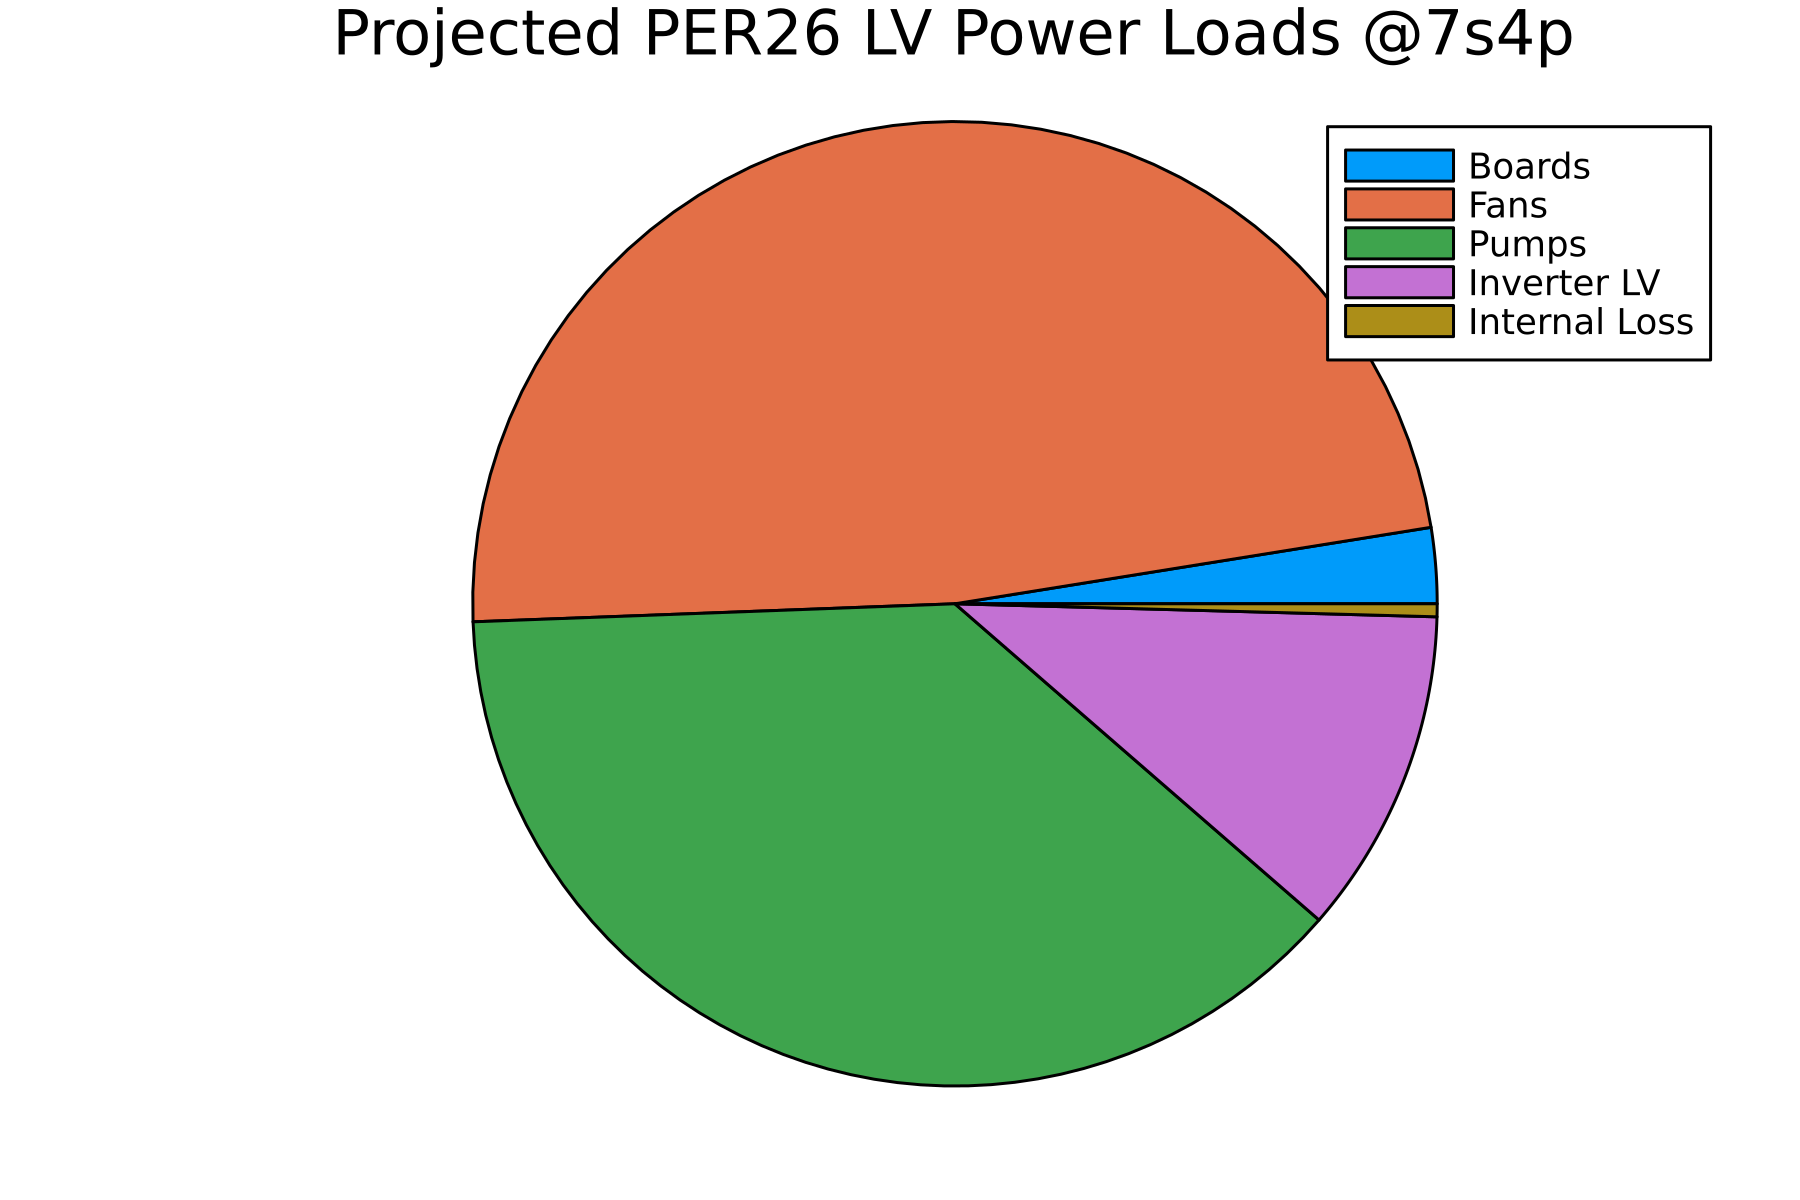
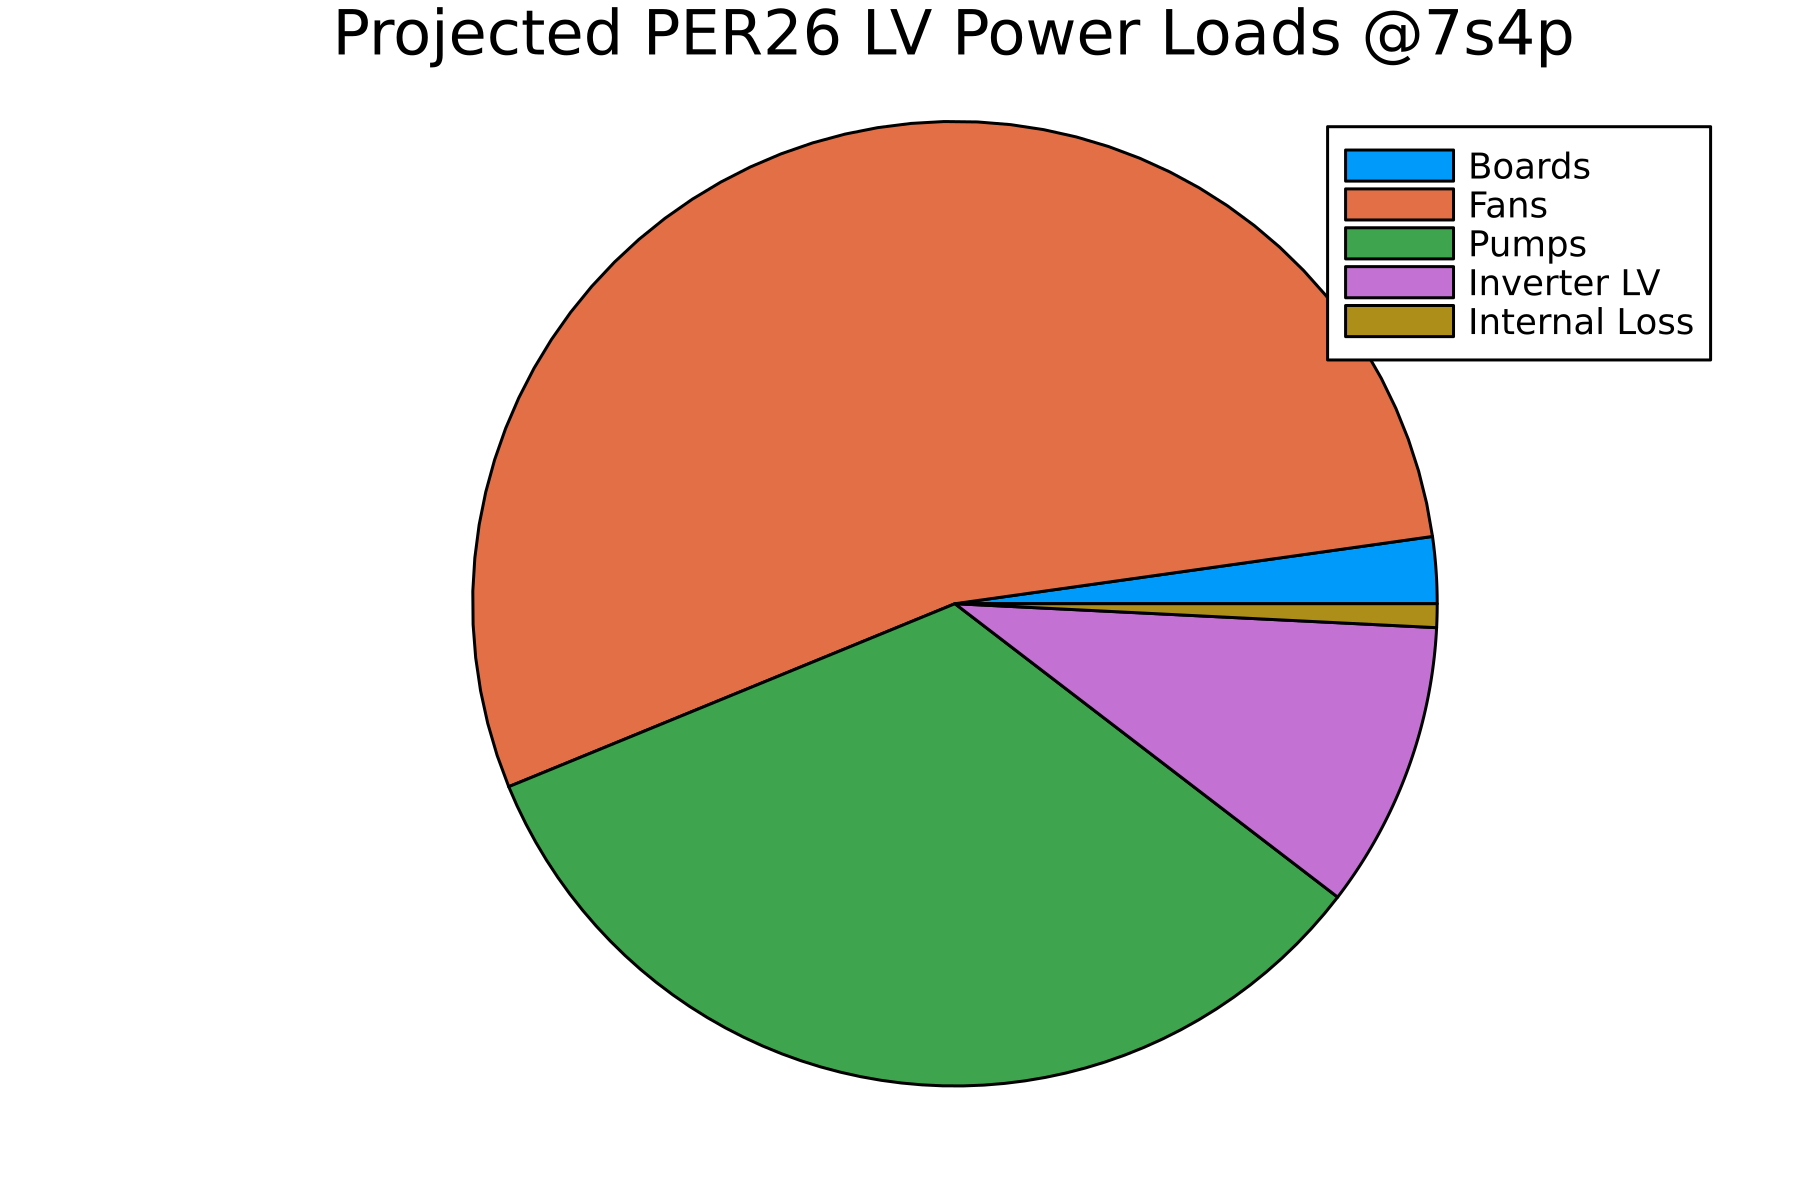
refactor fan model

Changed region(s): [[0.2489, 0.4625, 0.8089, 0.6475], [0.6222, 0.6167, 0.7467, 0.7708], [0.7156, 0.4317, 0.8089, 0.4625]]

diff --git a/README.md b/README.md
@@ -3,7 +3,7 @@
 ## Directory Structure
 - `battery/`: Battery sizing and performance
 - `circuits/`: Models of complete circuits
-- `components/`: Models of individual components/sensors
+- `components/`: Data-driven or physics-based models of individual components/sensors
 - `datasets/`: Raw data from bench testing and datasheets in xlsx/csv format
 - `figures/`: Plots and images generated from the models
 - `signals/`: Filtering and signal generation simulations
@@ -22,6 +22,6 @@ Thermistor modeling:
 
 LV battery sizing:
 ![per26_lv_loads](figures/per26_lv_loads.png)
-- Runtime: 61.47 minute
-- Sustained Total Power: 394.50 W
-- Endurance factor of safety: 1.92
+- Runtime: 53.99 minute
+- Sustained Total Power: 449.16 W
+- Endurance factor of safety: 1.69
